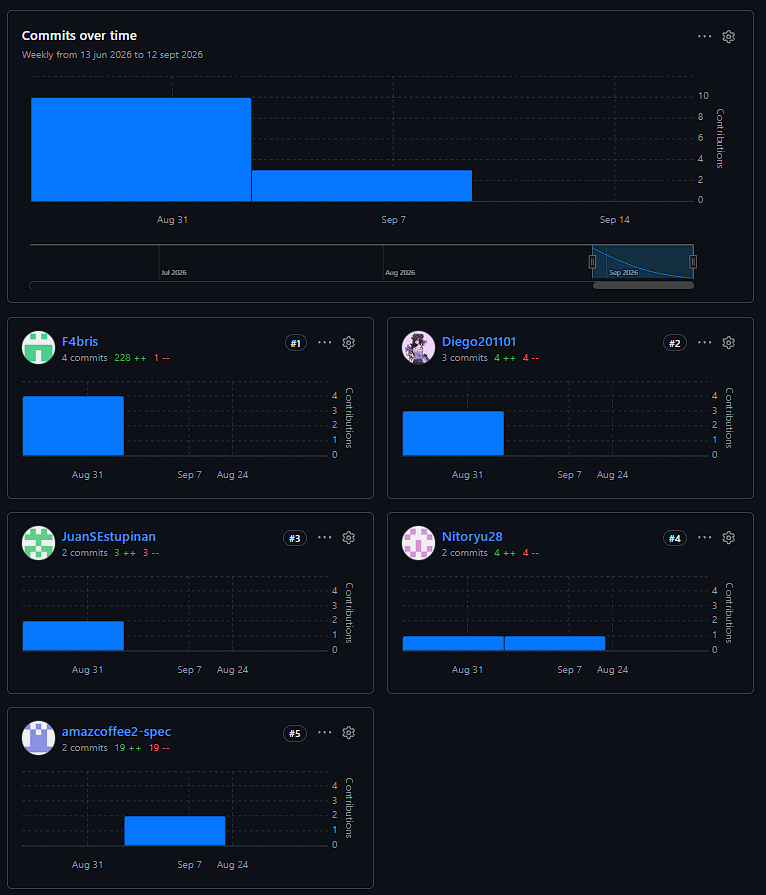
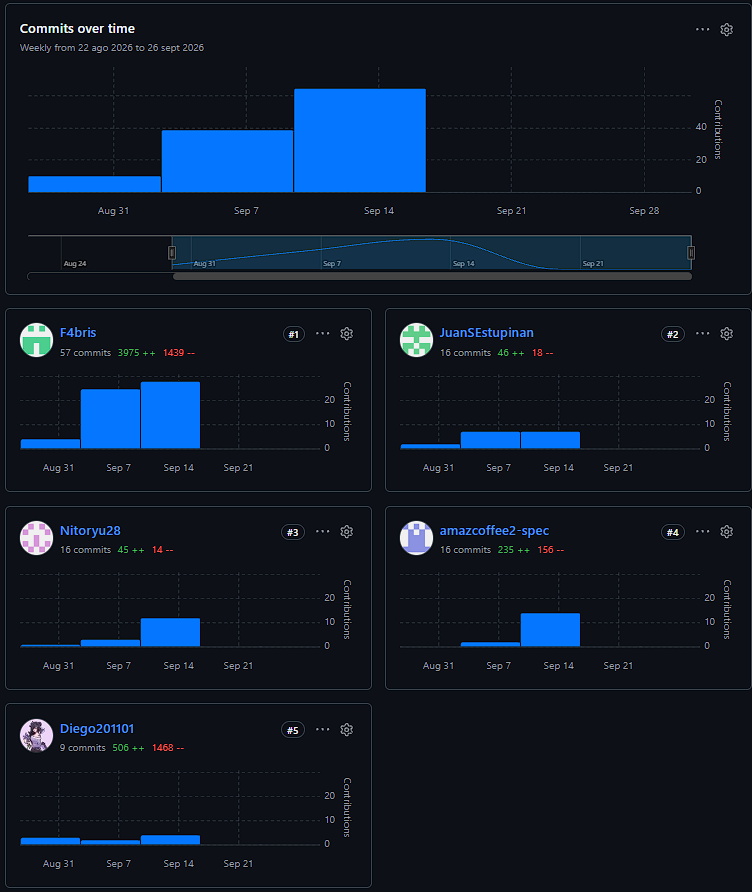
fix: update team member images and descriptions in startup profile

diff --git a/front-matter/11-startup_profile.md b/front-matter/11-startup_profile.md
@@ -18,9 +18,9 @@ Ser una startup reconocida por desarrollar productos de software innovadores que
 
 | Foto | Apellido y Nombre                                  | Descripción|
 |------|----------------------------------------------------|------|
-| <img src="../assets/team_members/Fabrizio.png" width ="300" height="300"> | *Tello Palacios, Fabrizio Rafael  u202113310*      |Soy estudiante de la carrera de Ingeniería de Software. Considero que soy una persona comprometida en cada trabajo y tarea y siempre trato de dar lo mejor de mi en cada situación. Tengo experiencia en el desarrollo UX/UI, enfocándome en el diseño de interfaces y prototipos utilizando Figma. Además, cuento con sólidos conocimientos en HTML, CSS y JavaScript, lo que me permite aportar al equipo con el desarrollo de interfaces funcionales e intuitivas.
-| <img src="../assets/team_members/Diego.jpg" width ="300" height="300"> | *Diego Sebastián Reátegui Galarcep u20201f165*     | Soy estudiante de Ingeniería de Software. Tengo habilidades en Python, JavaScript y Diseño de Soluciones de Software, lo cual me permite brindar soluciones sólidas y rápidas. Considero que soy una persona que minuciosa al trabajar y que al trabajar en equipo aumenta mi sentido de responsabilidad.
-| <img src="../assets/team_members/Juan.jpg" width ="300" height="300"> | *Estupiñan Olortegui, Juan Sebastian - U202223405* | Estudiante de Ingeniería de Software, con habilidades en C++, Java, Angular, HTML y Docker, también desarrollo diseño para aplicaciones y plataformas de web design. Soy demasiado dispuesto a trabajar en equipo y coordinar las tareas entre todos.
- <img src="../assets/team_members/Ricardo.png" width ="300" height="300"> | *Flores Martinez, Ricardo Andres - U202423162* | Soy estudiante de la carrera de Ingeniería de Software. Me caracterizo por ser una persona responsable y constante con las actividades que realizo, procurando cumplir con los objetivos establecidos. Tengo experiencia trabajando con C++ y Python, principalmente en proyectos académicos relacionados con programación y estructuras de datos.
-| <img src="../assets/team_members/Rosangela.jpeg" width ="300" height="300"> | Silva Hualpa Rosangela Karen                       |	Mi nombre es Rosangela Silva y estoy cursando la carrera de Ingeniería de Software. Tengo interés en seguir desarrollándome en el área de tecnología y adquirir experiencia a través de la participación en diferentes proyectos. Me gustaría enfocarme en el desarrollo y la creación de soluciones de software, aportando mis conocimientos, aprendiendo junto a mi equipo y asumiendo responsabilidades que contribuyan al cumplimiento de los objetivos del proyecto.
+| <img src="../assets/team_members/Fabrizio.png" width ="170" height="150"> | *Tello Palacios, Fabrizio Rafael  u202113310*      |Soy estudiante de la carrera de Ingeniería de Software. Considero que soy una persona comprometida en cada trabajo y tarea y siempre trato de dar lo mejor de mi en cada situación. Tengo experiencia en el desarrollo UX/UI, enfocándome en el diseño de interfaces y prototipos utilizando Figma. Además, cuento con sólidos conocimientos en HTML, CSS y JavaScript, lo que me permite aportar al equipo con el desarrollo de interfaces funcionales e intuitivas.
+| <img src="../assets/team_members/Diego.jpg" width="150" height="100"> | *Diego Sebastián Reátegui Galarcep u20201f165*     | Soy estudiante de Ingeniería de Software. Tengo habilidades en Python, JavaScript y Diseño de Soluciones de Software, lo cual me permite brindar soluciones sólidas y rápidas. Considero que soy una persona que minuciosa al trabajar y que al trabajar en equipo aumenta mi sentido de responsabilidad.
+| <img src="../assets/team_members/Juan.jpg" width="150" height="150"> | *Estupiñan Olortegui, Juan Sebastian - U202223405* | Estudiante de Ingeniería de Software, con habilidades en C++, Java, Angular, HTML y Docker, también desarrollo diseño para aplicaciones y plataformas de web design. Soy demasiado dispuesto a trabajar en equipo y coordinar las tareas entre todos.
+ <img src="../assets/team_members/Ricardo.png" width ="150" height="150"> | *Flores Martinez, Ricardo Andres - U202423162* | Soy estudiante de la carrera de Ingeniería de Software. Me caracterizo por ser una persona responsable y constante con las actividades que realizo, procurando cumplir con los objetivos establecidos. Tengo experiencia trabajando con C++ y Python, principalmente en proyectos académicos relacionados con programación y estructuras de datos.
+| <img src="../assets/team_members/Rosangela.jpeg" width ="150" height="150"> | Silva Hualpa Rosangela Karen                       |	Mi nombre es Rosangela Silva y estoy cursando la carrera de Ingeniería de Software. Tengo interés en seguir desarrollándome en el área de tecnología y adquirir experiencia a través de la participación en diferentes proyectos. Me gustaría enfocarme en el desarrollo y la creación de soluciones de software, aportando mis conocimientos, aprendiendo junto a mi equipo y asumiendo responsabilidades que contribuyan al cumplimiento de los objetivos del proyecto.
 
